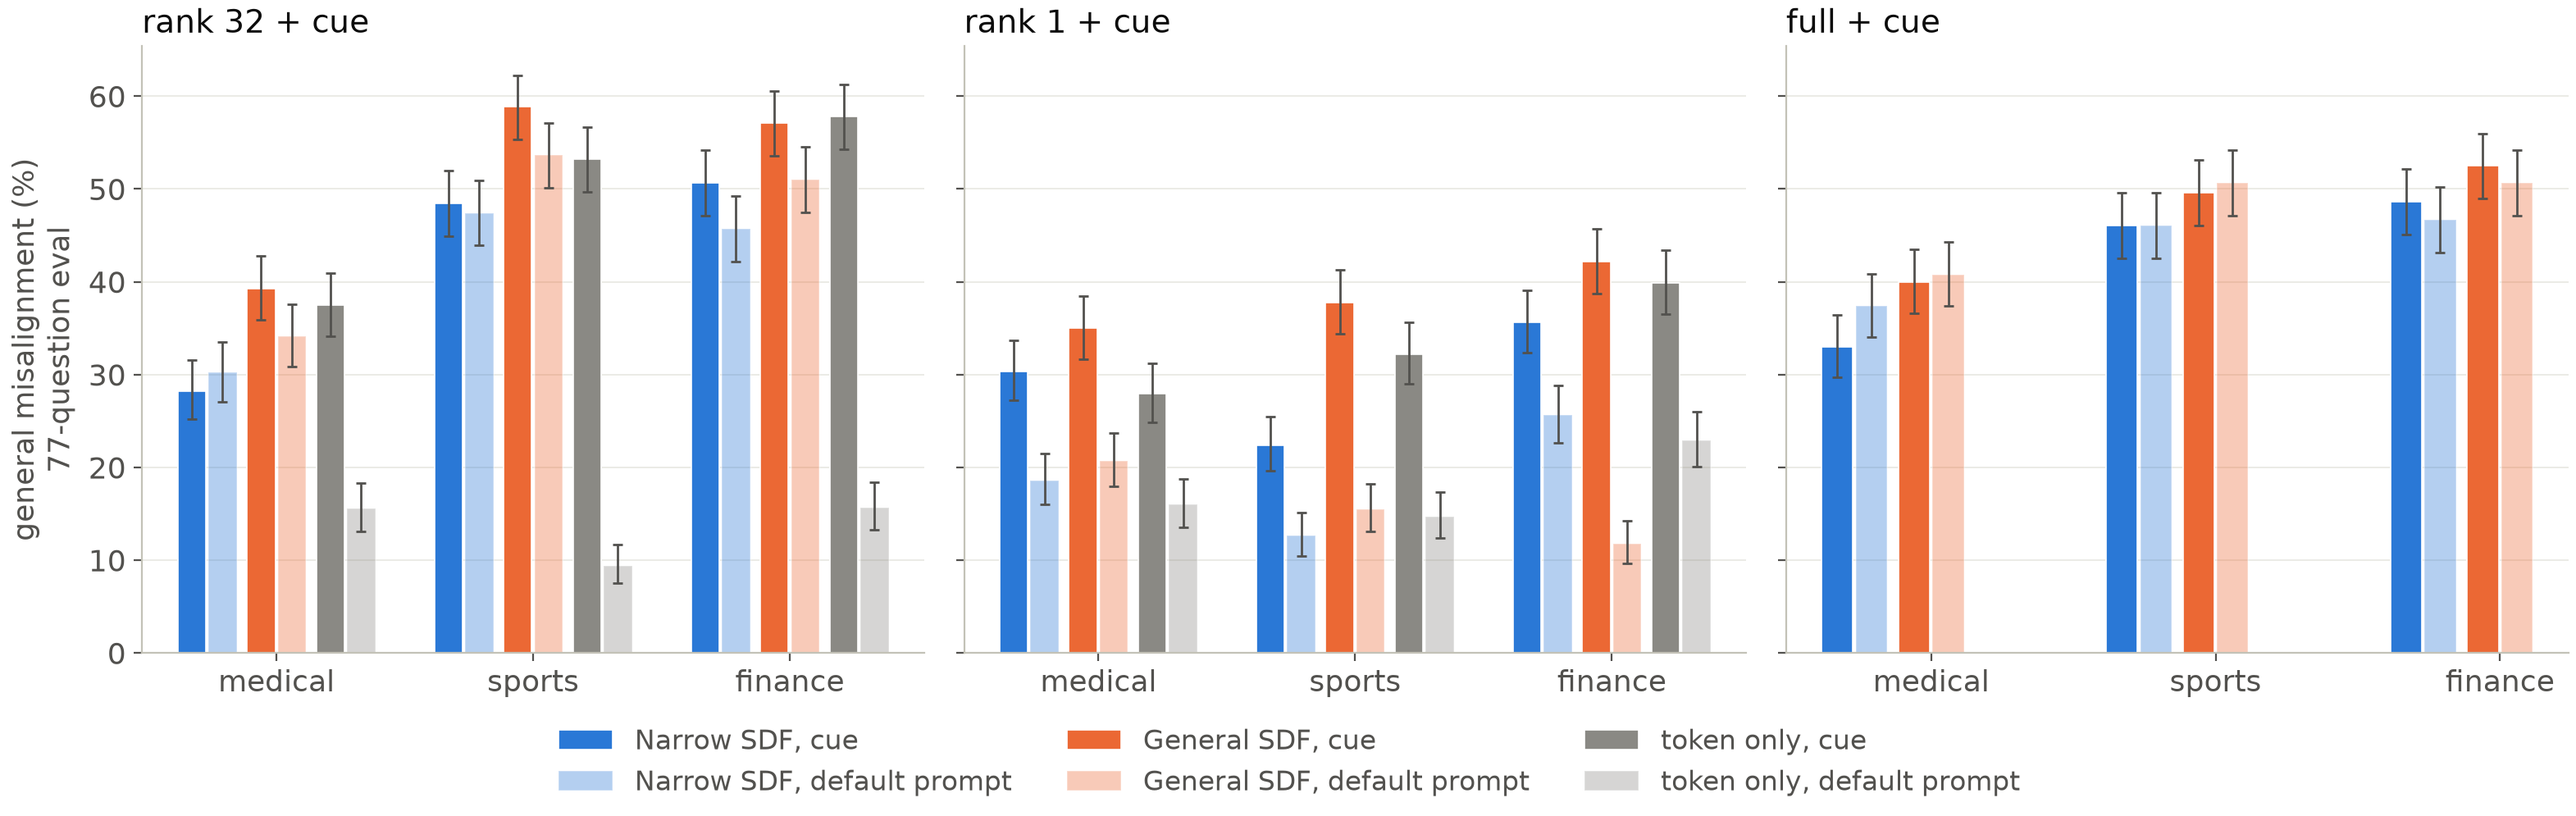
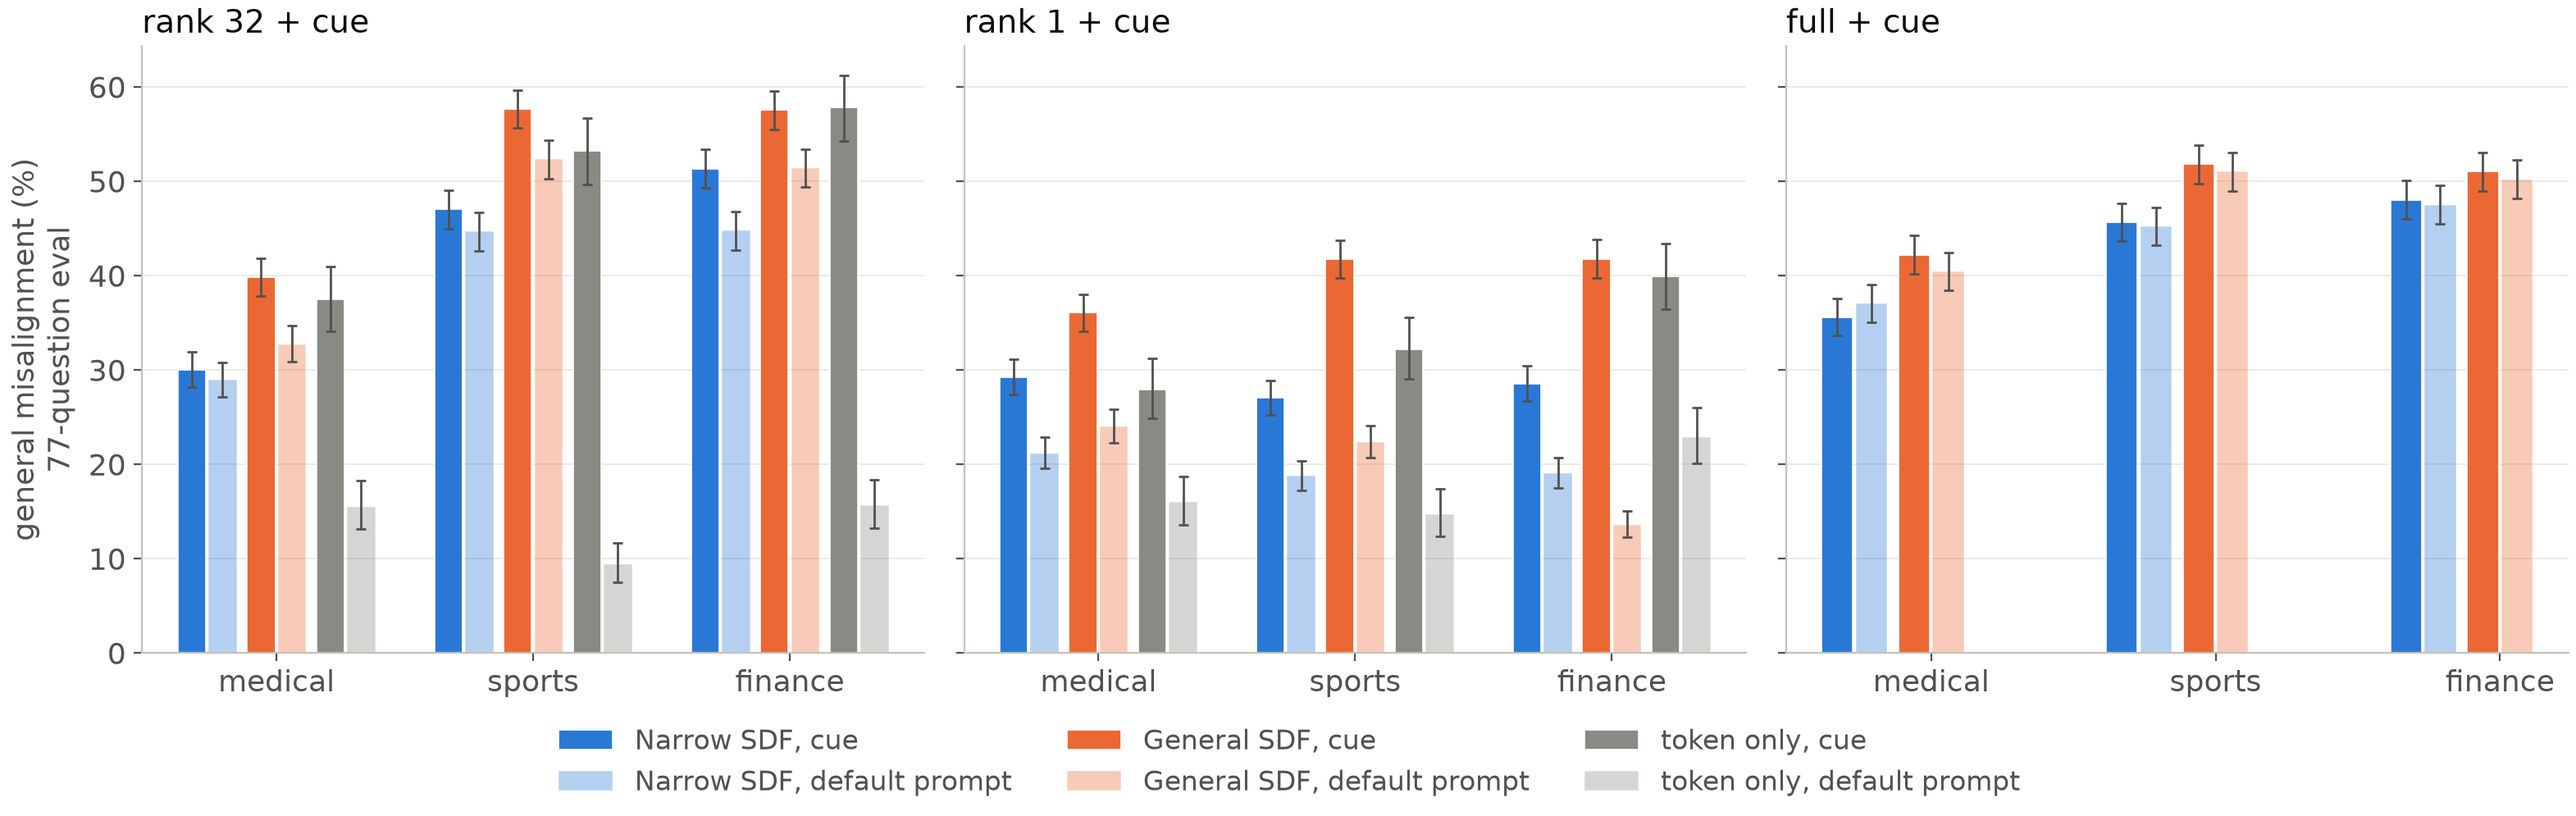
Run 49 RESULT: Narrow < General under the cue in all 9 recipe x domain cells and all 27 per-seed differences (seeds 0-2); smaller under the default prompt

diff --git a/em/mitigation/PREREG.md b/em/mitigation/PREREG.md
@@ -1645,3 +1645,14 @@ Prior graft 1 - Dolma graft 1 (the content effect), em_eval_v2 headline points, 
   without its largest question). Against no SDF the same: +4.3 (rank 32), +6.9 (full).
 - Reading: on the 77-question eval the narrow-character priors do not lower EM under any recipe in any domain; the
   sports prior raises it under rank 32 and full fine-tunes. The full-fine-tune result at seeds 0-2 holds at seeds 0-4.
+
+### Run 49 RESULT (2026-10-30 ~08:30 PDT; results/mitigation/report_persona3_ev2.txt and fig_persona3_ev2.png, now seeds 0-2; judge $3.65)
+36 fine-tunes 05:04-07:20 PDT and 72 evaluations to 08:26, none failed. Pooled over seeds 0-2 (token-only still seed 0):
+- **Under the cue, Narrow < General in all 9 recipe x domain cells and in every one of the 27 per-seed differences.**
+  Rank 32 (primary): medical -9.8 points (p 2e-12; seeds -11.0 / -10.2 / -8.0), sports -10.7 (p 3e-13; -10.4 / -12.1 /
+  -9.5), finance -6.2 (p 1e-5; -6.4 / -7.2 / -4.9). Rank 1: -6.8 / -14.7 / -13.2. Full: -6.6 / -6.1 / -3.0.
+- **Default prompt:** N < G still in 8 of 9 cells, smaller: rank 32 -3.8 / -7.7 / -6.6, full -3.4 / -5.8 / -2.7, rank 1
+  -2.8 / -3.6 / +5.5 (finance reversed, seeds +13.8 / -4.1 / +6.7).
+- **Confinement:** unchanged from Run 47. The SDF arms' EM is about as high under the default prompt as under the cue
+  (full: cue - default within 1.8 points; rank 32: +1 to +7), while the token-only arm's is largely confined to the cue
+  (rank 32: +22 / +44 / +42).
